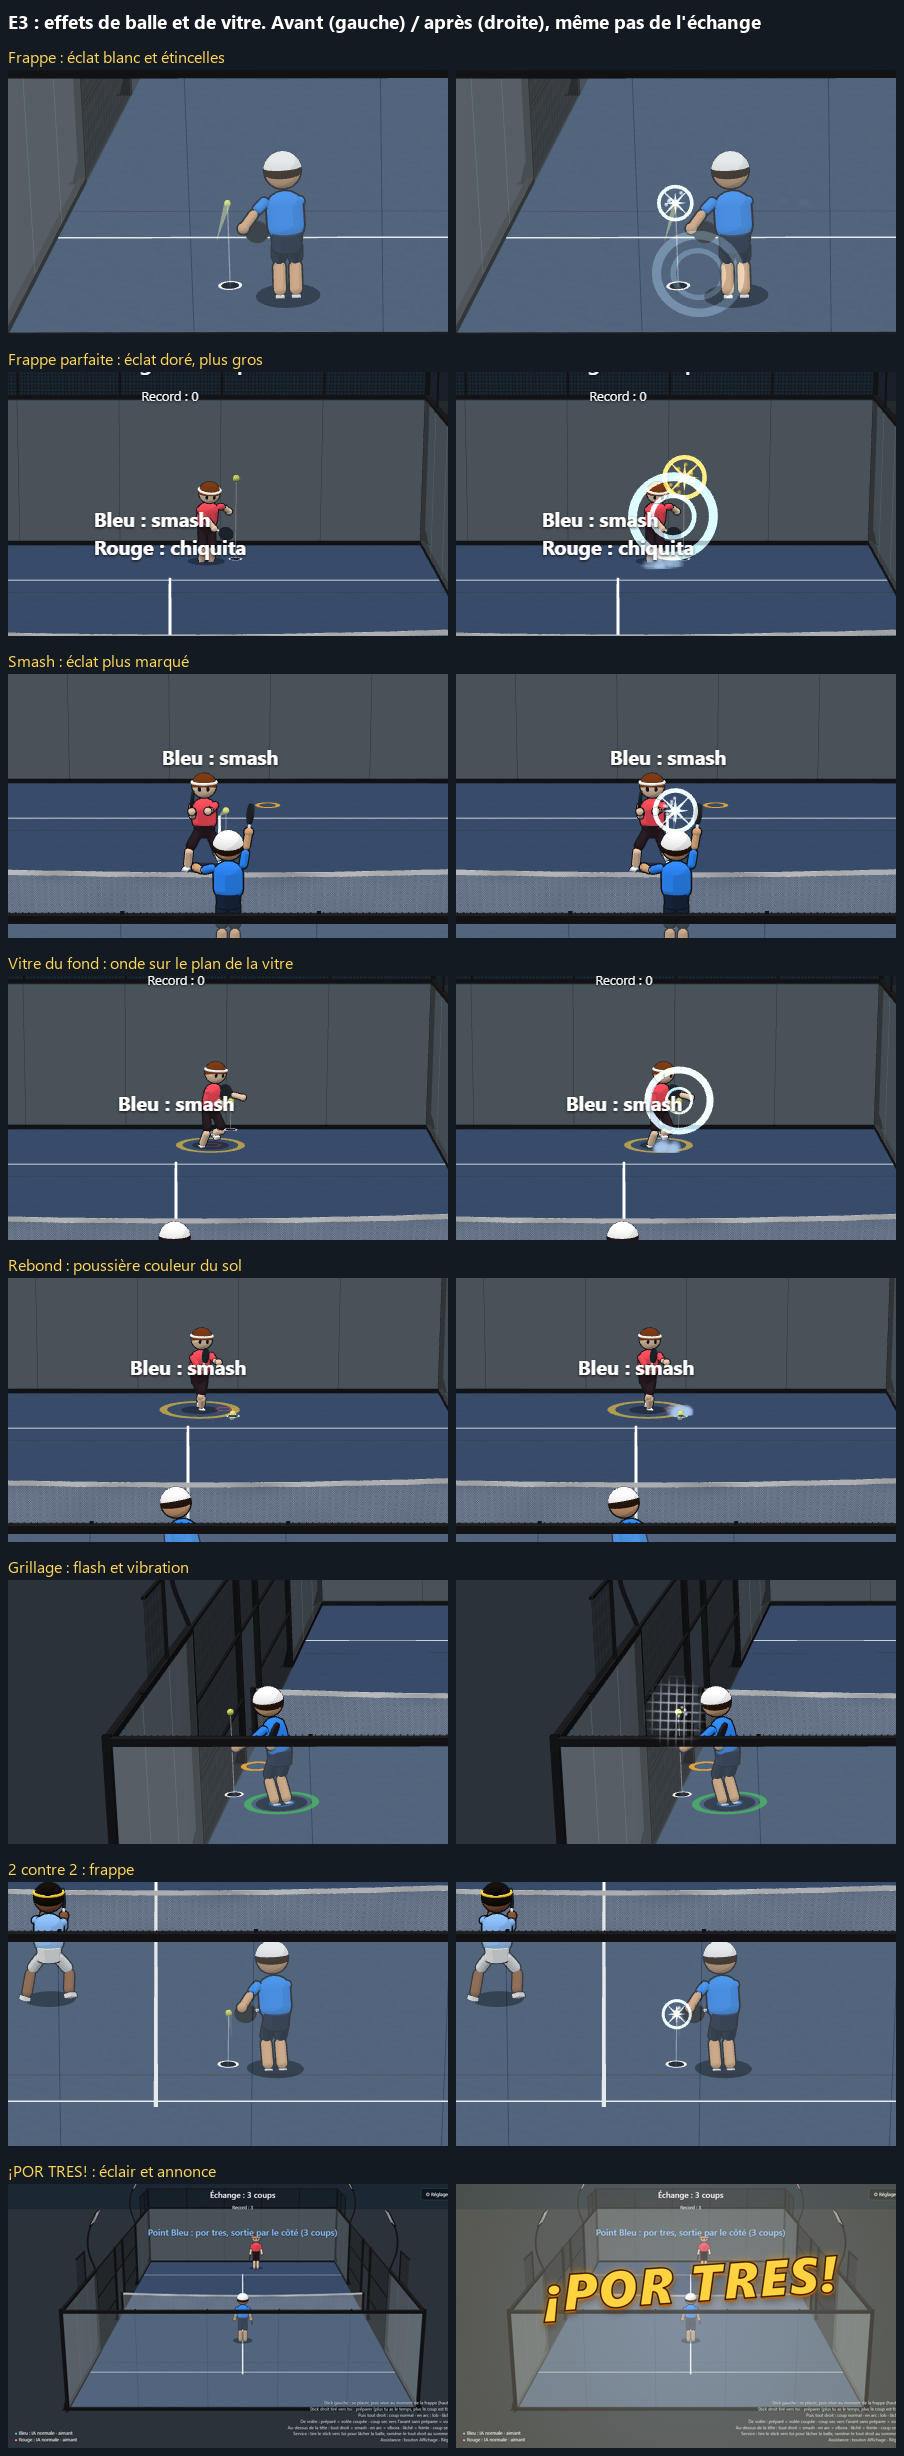
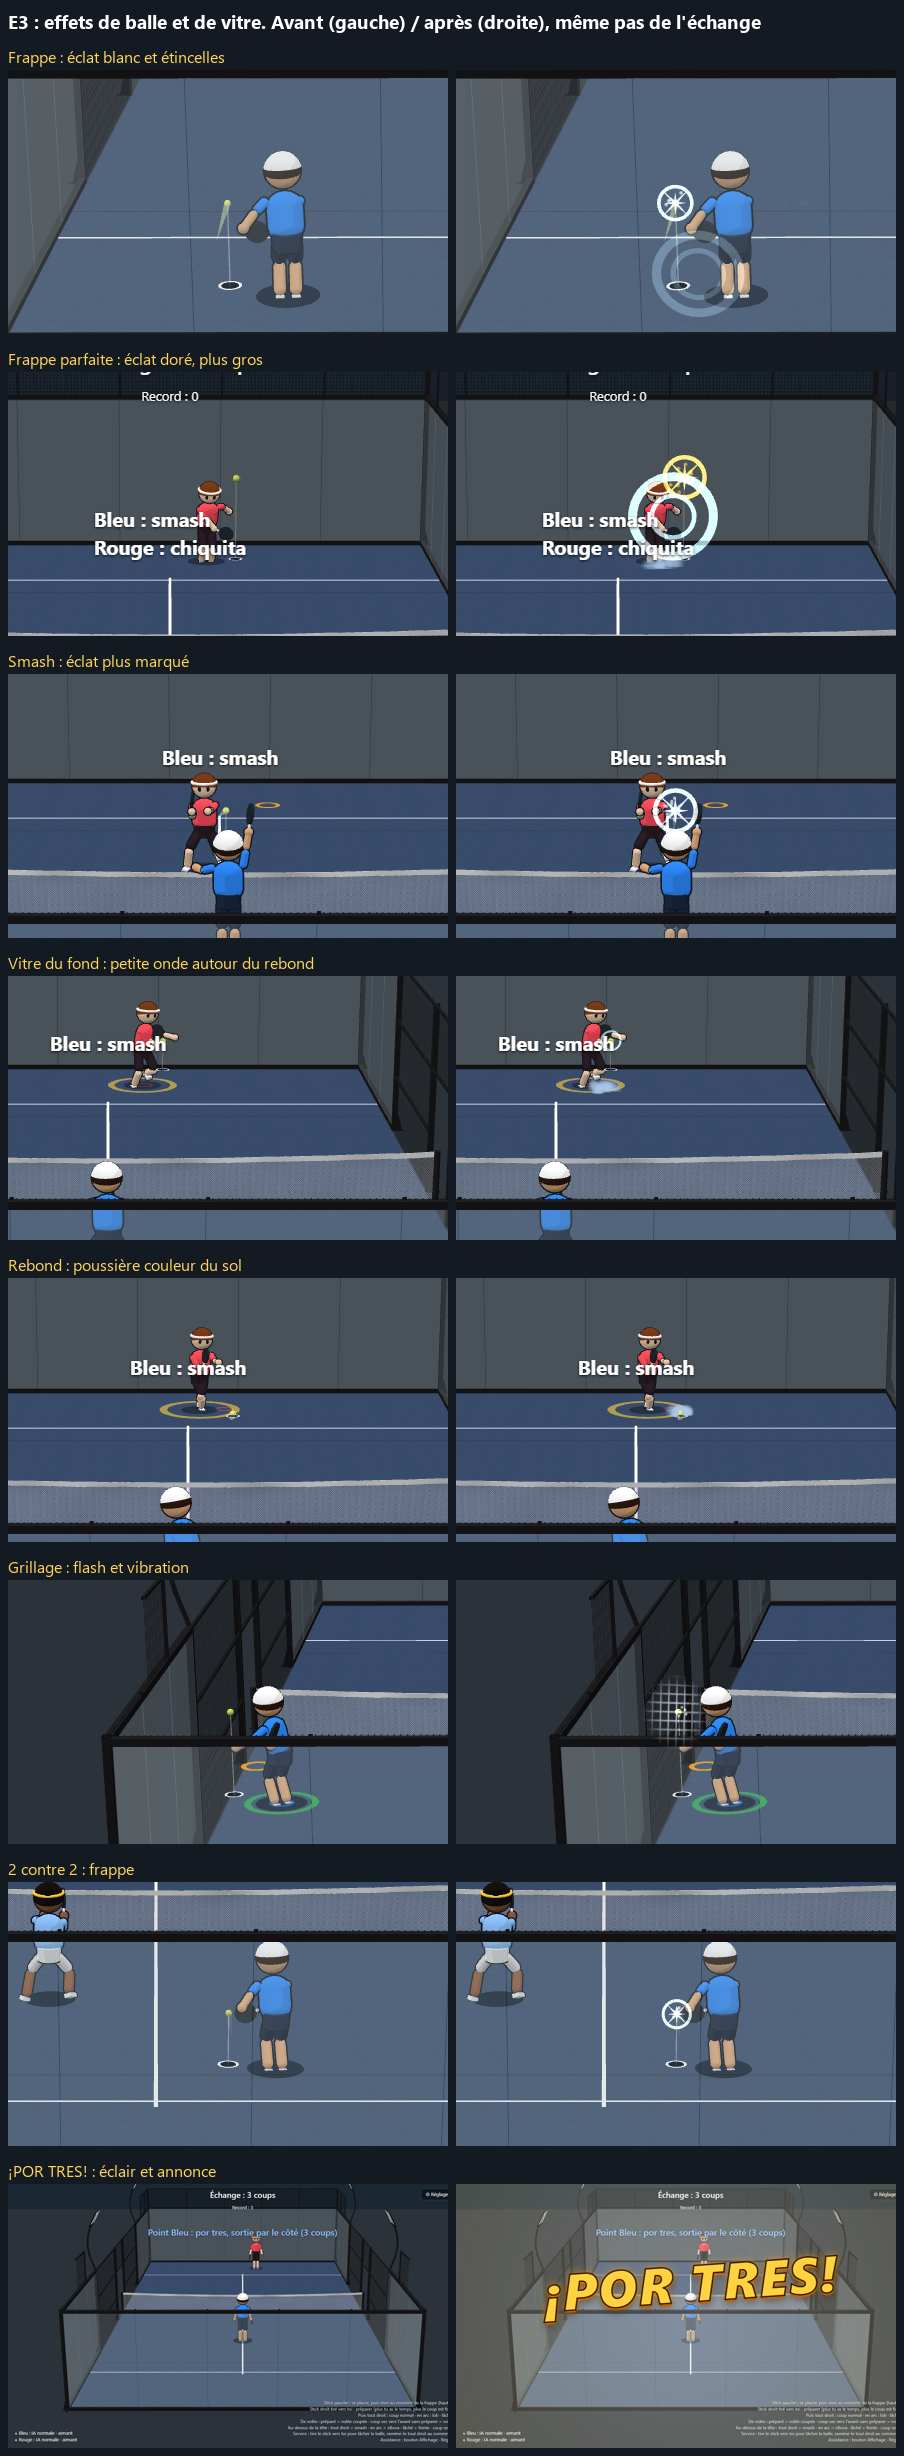
E3 : onde de vitre bien plus petite, pour laisser voir le rebond
Retour de Xavier : l'onde (deux anneaux de 25 à 85 cm) cachait la balle.
Un seul anneau de 7 à 20 cm, plus bref et moins lumineux.

Changed region(s): [[0.0, 0.3713, 0.9912, 0.5261]]

diff --git a/src/render/effects.ts b/src/render/effects.ts
@@ -13,7 +13,7 @@ import type { PointReason } from '../sim/duel';
 
 /**
  * - `impact` : éclat (anneau et étoile) au point de frappe, face à la caméra ;
- * - `glass` : onde sur le plan de la vitre touchée ;
+ * - `glass` : petite onde sur le plan de la vitre touchée ;
  * - `mesh` : grillage qui s'éclaire et vibre à l'endroit touché ;
  * - `exit` : éclat au sommet du mur, balle sortie après son rebond (por tres en vue).
  */
@@ -22,7 +22,7 @@ export type EffectKind = 'impact' | 'glass' | 'mesh' | 'exit';
 export interface Effect {
   active: boolean;
   kind: EffectKind;
-  /** Âge (s) ; négatif, l'effet attend son tour (seconde onde d'une vitre). */
+  /** Âge (s) ; négatif, l'effet attend son tour. */
   age: number;
   life: number;
   x: number;
@@ -130,9 +130,12 @@ export function glassStrength(speed: number): number {
   return Math.max(0.2, clamp01((speed - 2) / 16));
 }
 
-/** Onde de vitre : rayon final (m) et durée (s) pour une force donnée. */
+/**
+ * Onde de vitre : rayon final (m) et durée (s) pour une force donnée. Petite et brève, pour ne pas cacher le rebond
+ * (retour de Xavier : à 25–85 cm, elle masquait la balle). [à calibrer]
+ */
 export function glassLook(strength: number): { size: number; life: number } {
-  return { size: 0.25 + 0.6 * strength, life: 0.4 + 0.2 * strength };
+  return { size: 0.07 + 0.13 * strength, life: 0.22 + 0.1 * strength };
 }
 
 /** Vitesse verticale (m/s) sous laquelle la balle ne soulève plus de poussière (elle roule). */
@@ -267,10 +270,7 @@ export class Effects {
         const strength = glassStrength(speed);
         const look = glassLook(strength);
         const [x, z] = onWall(wall.axis, wall.normal, pos.x, pos.z);
-        // Deux ondes : la seconde, plus petite, part un peu après.
         this.spawn('glass', x, pos.y, z, look.life, look.size, EFFECT_COLORS.glass, strength, wall.normal);
-        const second = this.spawn('glass', x, pos.y, z, look.life * 0.8, look.size * 0.6, EFFECT_COLORS.glass, strength * 0.7, wall.normal);
-        second.age = -0.07;
         return;
       }
       case 'mesh': {

diff --git a/tests/render/effects.test.ts b/tests/render/effects.test.ts
@@ -65,7 +65,7 @@ describe('effets de balle et de vitre', () => {
     expect(impactLook(shot(false, null, 30)).size).toBeGreaterThan(impactLook(shot(false, null, 5)).size);
   });
 
-  it('onde de vitre : plus forte et plus large si la balle va vite, sur le plan de la vitre', () => {
+  it('onde de vitre : petite, plus forte et plus large si la balle va vite, sur le plan de la vitre', () => {
     expect(glassStrength(25)).toBeGreaterThan(glassStrength(8));
     expect(glassStrength(0)).toBeGreaterThan(0);
     expect(glassStrength(100)).toBe(1);
@@ -75,13 +75,11 @@ describe('effets de balle et de vitre', () => {
     const contact: Contact = { surface: 'glass', wall: 'backFar', pos: vec3(1.5, 1.2, HALF_LENGTH - 0.0325), speed: 12 };
     fx.fromStep(step({ contacts: [contact] }));
     const waves = active(fx);
-    expect(waves.map((e) => e.kind)).toEqual(['glass', 'glass']);
-    for (const e of waves) {
-      expect(e.z).toBeCloseTo(HALF_LENGTH - 0.01, 6);
-      expect([e.nx, e.ny, e.nz]).toEqual([0, 0, -1]);
-    }
-    // La seconde onde part un peu après.
-    expect(waves[1]!.age).toBeLessThan(0);
+    expect(waves.map((e) => e.kind)).toEqual(['glass']);
+    expect(waves[0]!.z).toBeCloseTo(HALF_LENGTH - 0.01, 6);
+    expect([waves[0]!.nx, waves[0]!.ny, waves[0]!.nz]).toEqual([0, 0, -1]);
+    // Petite, pour laisser voir le rebond : jamais plus de 20 cm de rayon.
+    expect(glassLook(1).size).toBeLessThanOrEqual(0.2);
 
     const side = new Effects(32, 256, seeded());
     side.contact({ surface: 'glass', wall: 'sideNegX', pos: vec3(-HALF_WIDTH + 0.0325, 1, 6), speed: 6 }, false);

diff --git a/src/render/effectsView.ts b/src/render/effectsView.ts
@@ -239,7 +239,7 @@ export function createEffectsView(scene: THREE.Scene, clippingPlanes: THREE.Plan
         }
         const far = place(e, camera, e.kind !== 'glass');
         // Une vitre se voit toujours, même touchée doucement.
-        const brightness = e.kind === 'glass' ? 0.45 + 0.55 * e.strength : e.strength;
+        const brightness = e.kind === 'glass' ? 0.35 + 0.45 * e.strength : e.strength;
         write(rings, ringCount++, e.size * far * (0.15 + 0.85 * ringOpening(t)), e.color, brightness * fade(t));
         if (e.star) {
           // Étoile qui jaillit et tourne, éteinte avant l'anneau.

diff --git a/STATUS.md b/STATUS.md
@@ -588,7 +588,8 @@ joueur automatique compris, typecheck OK. **Rien n'est encore joué à la manett
 
 - **Frappe** : anneau qui s'ouvre et étoile qui tourne au point de contact, face à la caméra, avec des étincelles.
   Blanc sinon, doré, plus gros et plus long sur une frappe parfaite ; plus grand encore sur un smash (remate).
-- **Vitre** : deux ondes sur le plan de la vitre touchée, plus fortes et plus larges si la balle va vite.
+- **Vitre** : petite onde sur le plan de la vitre touchée, autour du rebond (7 à 20 cm de rayon, 0,2 à 0,3 s), plus
+  forte si la balle va vite. Retour de Xavier : la première version (deux ondes de 25 à 85 cm) cachait le rebond.
 - **Rebond au sol** : petit nuage de poussière (bleu clair sur le gazon, gris dehors), proportionné à la vitesse
   verticale ; rien quand la balle roule.
 - **Grillage** : tache de losanges qui s'éclaire et vibre à l'endroit touché, avec quelques éclats. Le grillage
